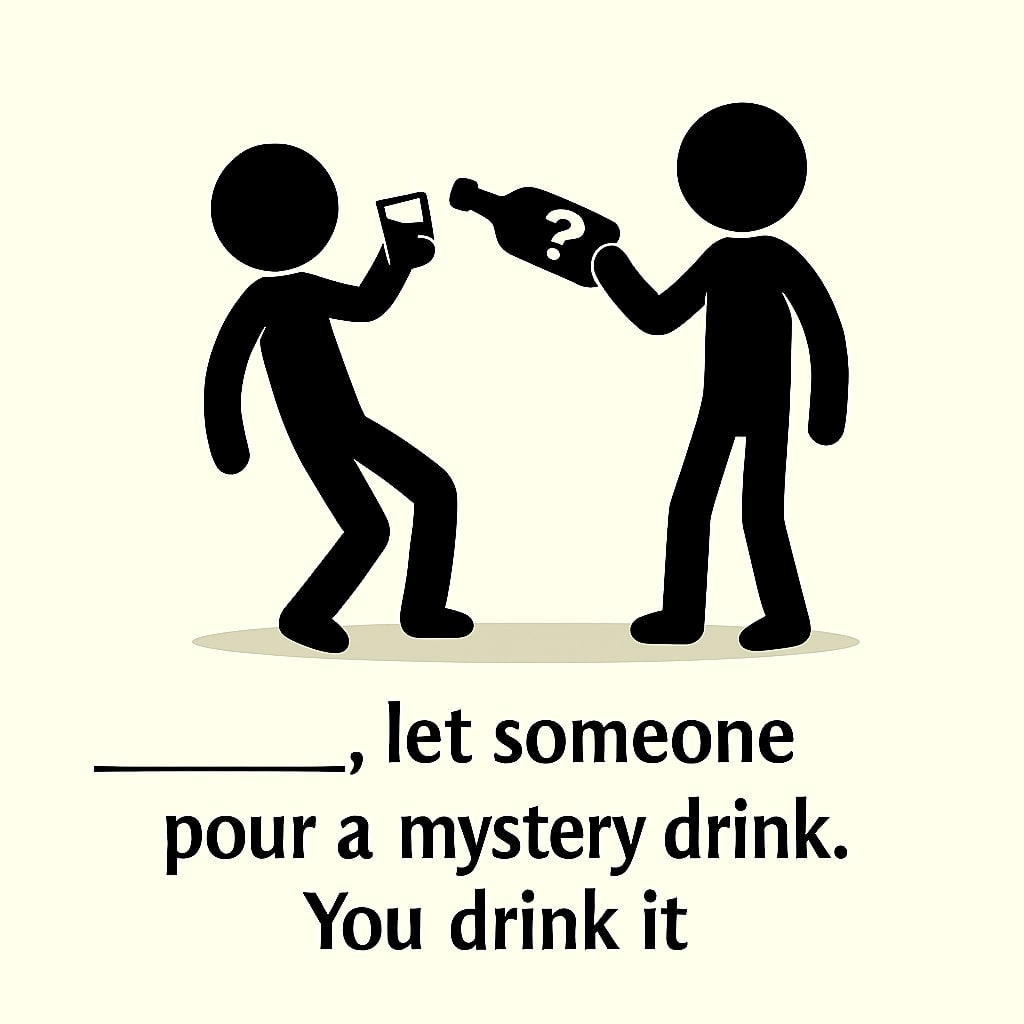
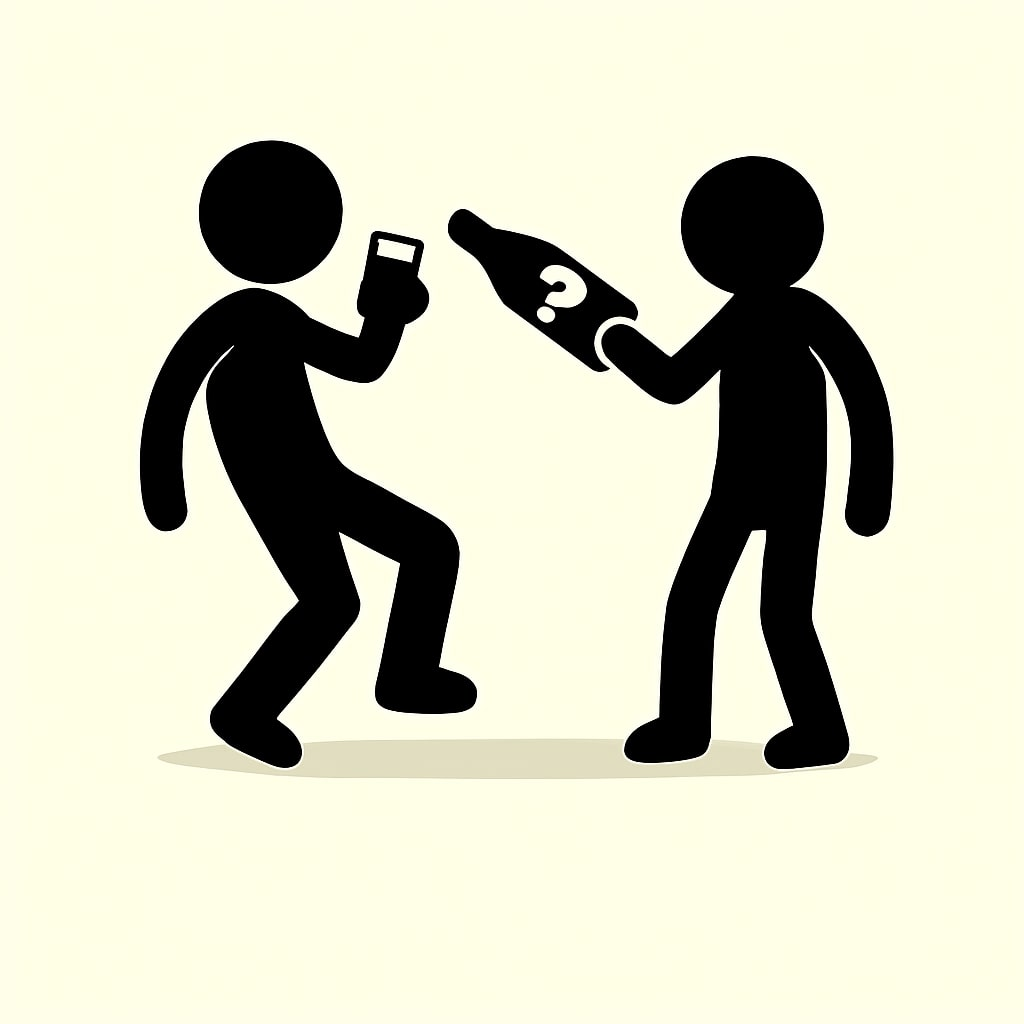
test

diff --git a/cardImages.js b/cardImages.js
@@ -18,7 +18,7 @@ const cardImageMap = {
   "[player1], whisper something you've always wondered about [player2]. Answer out loud truthfully or finish your drink": "whisper_question.jpg",
   "[player1], ask [player2] the last thing they lied about.": "ask_last_lie.jpg",
   "[player1], give your phone to [player2] for 60 seconds — app of their choice.": "give_phone_dare.jpg",
-  "[player1], challenge [player2] to a sip-for-sip showdown — loser finishes their drink.": "bodyshot.jpg",
+  "[player1], take a body shot off someone of your choice.": "bodyshot.jpg",
   "[player1], Read your last flirtatious message out loud or take 3 sips.": "risky_text.jpg",
   "[player1], What's a compliment you've never forgotten?": "ask_personal_questions.jpg",
   "[player1], if you had to hook up with [player2] or your last situationship, who would you pick?": "kiss_situationship_or_friend.jpg",
@@ -26,61 +26,61 @@ const cardImageMap = {
 };
 
 const nameOverlayStyles = {
-  "ask_last_lie.jpg": {
-    player1: { top: "60%", left: "20%", fontSize: "14px" },
-    player2: { top: "60%", left: "55%", fontSize: "14px" }
-  },
-  "ask_personal_questions.jpg": {
-    player1: { top: "30%", left: "30", fontSize: "14px" },
-    player2: { top: "30%", left: "65%", fontSize: "14px" }
-  },
-  "bodyshot.jpg": {
-    player1: { top: "60%", left: "22%", fontSize: "16px" }
+  "do_a_valid_pushup.jpg": {
+    player1: { top: "70%", left: "50%", fontSize: "16px" }
   },
   "call_snapchat.jpg": {
-    player1: { top: "18%", left: "24%", fontSize: "16px" }
-  },
-  "do_a_valid_pushup.jpg": {
-    player1: { top: "22%", left: "45%", fontSize: "14px" }
-  },
-  "first_impression.jpg": {
-    player1: { top: "14%", left: "20%", fontSize: "14px" },
-    player2: { top: "14%", left: "70%", fontSize: "14px" }
-  },
-  "give_dare_or_drink.jpg": {
-    player1: { top: "40%", left: "25%", fontSize: "14px" },
-    player2: { top: "40%", left: "65%", fontSize: "14px" }
-  },
-  "give_phone_dare.jpg": {
-    player1: { top: "60%", left: "15%", fontSize: "14px" },
-    player2: { top: "70%", left: "25%", fontSize: "14px" }
-  },
-  "guess_body_count.jpg": {
-    player1: { top: "60%", left: "17%", fontSize: "14px" },
-    player2: { top: "60%", left: "55%", fontSize: "14px" }
-  },
-  "invent_a_drinking_rule_everyone_follows_it.jpg": {
-    player1: { top: "40%", left: "40%", fontSize: "16px" }
-  },
-  "kiss_situationship_or_friend.jpg": {
-    player1: { top: "60%", left: "30%", fontSize: "14px" },
-    player2: { top: "60%", left: "70%", fontSize: "14px" }
-  },
-  "let_someone_decide_drink.jpg": {
-    player1: { top: "26%", left: "28%", fontSize: "16px" }
+    player1: { top: "25%", left: "50%", fontSize: "16px" }
   },
   "mystery_drink.jpg": {
-    player1: { top: "30%", left: "28%", fontSize: "16px" }
+    player1: { top: "25%", left: "50%", fontSize: "16px" }
+  },
+  "let_someone_decide_drink.jpg": {
+    player1: { top: "25%", left: "40%", fontSize: "16px" }
+  },
+  "give_dare_or_drink.jpg": {
+    player1: { top: "15%", left: "35%" },
+    player2: { top: "15%", left: "65%" }
+  },
+  "guess_body_count.jpg": {
+    player1: { top: "22%", left: "25%", fontSize: "15px" },
+    player2: { top: "22%", left: "75%", fontSize: "15px" }
   },
   "rate_flirting_ability.jpg": {
-    player1: { top: "70%", left: "30%", fontSize: "14px" },
-    player2: { top: "70%", left: "65%", fontSize: "14px" }
-  },
-  "whisper_question.jpg": {
-    player1: { top: "24%", left: "32%", fontSize: "14px" },
-    player2: { top: "24%", left: "68%", fontSize: "14px" }
+    player1: { top: "20%", left: "30%", fontSize: "14px" },
+    player2: { top: "20%", left: "70%", fontSize: "14px" }
   },
   "you_a_bitch.jpg": {
-    player1: { top: "26%", left: "30%", fontSize: "16px" }
+    player1: { top: "15%", left: "30%", fontSize: "16px" }
+  },
+  "invent_a_drinking_rule_everyone_follows_it.jpg": {
+    player1: { top: "10%", left: "50%", fontSize: "16px" }
+  },
+  "first_impression.jpg": {
+    player1: { top: "20%", left: "30%", fontSize: "14px" },
+    player2: { top: "20%", left: "70%", fontSize: "14px" }
+  },
+  "whisper_question.jpg": {
+    player1: { top: "28%", left: "35%", fontSize: "14px" },
+    player2: { top: "28%", left: "65%", fontSize: "14px" }
+  },
+  "ask_last_lie.jpg": {
+    player1: { top: "20%", left: "30%", fontSize: "15px" },
+    player2: { top: "20%", left: "70%", fontSize: "15px" }
+  },
+  "give_phone_dare.jpg": {
+    player1: { top: "25%", left: "30%", fontSize: "14px" },
+    player2: { top: "25%", left: "70%", fontSize: "14px" }
+  },
+  "bodyshot.jpg": {
+    player1: { top: "22%", left: "50%", fontSize: "15px" }
+  },
+  "ask_personal_questions.jpg": {
+    player1: { top: "15%", left: "35%", fontSize: "14px" },
+    player2: { top: "15%", left: "65%", fontSize: "14px" }
+  },
+  "kiss_situationship_or_friend.jpg": {
+    player1: { top: "25%", left: "30%", fontSize: "14px" },
+    player2: { top: "25%", left: "70%", fontSize: "14px" }
   }
 };

diff --git a/game.html b/game.html
@@ -1,4 +1,4 @@
-<!-- #made by chambers Malouf -->
+<!-- made by Chambers Malouf -->
 <!DOCTYPE html>
 <html>
 <head>
@@ -31,7 +31,7 @@
       perspective: 1000px;
       margin: auto;
       width: 300px;
-      height: 450px;
+      height: 480px;
       position: relative;
       cursor: pointer;
     }
@@ -59,17 +59,28 @@
     .card-front {
       transform: rotateY(180deg);
       display: flex;
+      flex-direction: column;
       align-items: center;
-      justify-content: center;
+      justify-content: flex-start;
       overflow: hidden;
       background: none;
       position: relative;
+      padding-top: 10px;
     }
     .card-front img {
       max-width: 100%;
-      max-height: 100%;
+      height: auto;
       object-fit: contain;
       border-radius: 10px;
+    }
+    .overlay-text {
+      margin-top: 10px;
+      color: white;
+      font-size: 18px;
+      font-weight: bold;
+      text-shadow: 1px 1px 2px black;
+      padding: 10px;
+      max-width: 90%;
     }
     .player-name {
       position: absolute;
@@ -119,23 +130,25 @@
     const loadingOverlay = document.getElementById("loadingOverlay");
     document.getElementById("modeTitle").textContent = `Game Mode: ${mode} | Rounds Left: ${totalRounds}`;
 
-    async function setupCard(backURL, frontContent, imageName, name1, name2) {
+    async function setupCard(backURL, frontImagePath, slug, name1, name2, rawText) {
       loadingOverlay.style.display = "none";
 
       let overlayHTML = "";
-      const overlay = nameOverlayStyles[imageName];
+      const overlay = nameOverlayStyles[slug];
       if (overlay) {
         if (overlay.player1) {
-          overlayHTML += `<div class="player-name" style="top: ${overlay.player1.top}; left: ${overlay.player1.left}; font-size: ${overlay.player1.fontSize};">${name1}</div>`;
+          overlayHTML += `<div class="player-name" style="top: ${overlay.player1.top}; left: ${overlay.player1.left}; font-size: ${overlay.player1.fontSize || '16px'}">${name1}</div>`;
         }
         if (overlay.player2) {
-          overlayHTML += `<div class="player-name" style="top: ${overlay.player2.top}; left: ${overlay.player2.left}; font-size: ${overlay.player2.fontSize};">${name2}</div>`;
+          overlayHTML += `<div class="player-name" style="top: ${overlay.player2.top}; left: ${overlay.player2.left}; font-size: ${overlay.player2.fontSize || '16px'}">${name2}</div>`;
         }
       }
 
-      const frontHTML = frontContent.includes("images/cards/")
-        ? `<img src='${frontContent}' alt='Card Image'>${overlayHTML}`
-        : `<div style="background:#111; color:white; padding:20px; border-radius:10px; font-size:1.2em;">${frontContent}</div>`;
+      const frontHTML = `
+        <img src='${frontImagePath}' alt='Card Image'>
+        ${overlayHTML}
+        <div class="overlay-text">${rawText}</div>
+      `;
 
       document.getElementById("result").innerHTML = `
         <div class="card-container">
@@ -182,20 +195,17 @@
 
         const card = availableCards.shift();
         let rawCard = card.text;
+        const slug = cardImageMap[card.text] || "";
+        const frontImagePath = slug ? `images/cards/${slug}` : "";
+        const backImagePath = `images/ui/${card.type}-${card.severity}.jpg`;
 
         const shuffled = [...players].sort(() => 0.5 - Math.random());
         const name1 = shuffled[0] || "Player 1";
         const name2 = shuffled[1] || "Player 2";
 
-        if (rawCard.includes("[player1]") || rawCard.includes("[player2]")) {
-          rawCard = rawCard
-            .replace("[player1]", name1)
-            .replace("[player2]", name2);
-        }
-
-        const slug = cardImageMap[card.text] || "";
-        const frontImagePath = slug ? `images/cards/${slug}` : "";
-        const backImagePath = `images/ui/${card.type}-${card.severity}.jpg`;
+        rawCard = rawCard
+          .replace("[player1]", name1)
+          .replace("[player2]", name2);
 
         nextCardText = rawCard;
         currentRound++;
@@ -203,14 +213,14 @@
 
         if (frontImagePath) {
           await preloadCardImage(frontImagePath);
-          setupCard(backImagePath, frontImagePath, slug, name1, name2);
+          setupCard(backImagePath, frontImagePath, slug, name1, name2, rawCard);
         } else {
-          setupCard(backImagePath, rawCard, "", name1, name2);
+          setupCard(backImagePath, "", "", name1, name2, rawCard);
         }
 
       } catch (error) {
         nextCardText = "Error: " + error.message;
-        setupCard("images/ui/conflict-casual.jpg", nextCardText, "", "Player 1", "Player 2");
+        setupCard("images/ui/conflict-casual.jpg", "", "", "Player 1", "Player 2", nextCardText);
       }
     }
 

diff --git a/cardTextMap.js b/cardTextMap.js
@@ -1,0 +1,50 @@
+const cardTextMap = {
+  "ask_last_lie.jpg": {
+    text: "<b>[player1]</b> ask <b>[player2]</b> the last thing they lied about."
+  },
+  "ask_personal_questions.jpg": {
+    text: "Take turns asking personal questions until someone folds and drinks."
+  },
+  "bodyshot.jpg": {
+    text: "<b>[player1]</b> give a body shot off someone of your choice."
+  },
+  "call_snapchat.jpg": {
+    text: "<b>[player1]</b>, call the last person you Snapchatted and ask what they think of you."
+  },
+  "do_a_valid_pushup.jpg": {
+    text: "<b>[player1]</b>, do 1 valid push up, group decides if it counts."
+  },
+  "first_impression.jpg": {
+    text: "<b>[player1]</b>, explain your first impression of <b>[player2]</b>. Be honest."
+  },
+  "give_dare_or_drink.jpg": {
+    text: "<b>[player1]</b>, give <b>[player2]</b> a dare. If they refuse, they drink."
+  },
+  "give_phone_dare.jpg": {
+    text: "<b>[player1]</b>, give your phone to <b>[player2]</b> for 60 seconds. App of their choice."
+  },
+  "guess_body_count.jpg": {
+    text: "<b>[player1]</b> guess <b>[player2]</b>'s body count. If they're offended, finish your drink."
+  },
+  "invent_a_drinking_rule_everyone_follows_it.jpg": {
+    text: "<b>[player1]</b>, invent a drinking rule — everyone follows it."
+  },
+  "kiss_situationship_or_friend.jpg": {
+    text: "<b>[player1]</b>, if you had to hook up with <b>[player2]</b> or your last situationship, who would you pick?"
+  },
+  "let_someone_decide_drink.jpg": {
+    text: "<b>[player1]</b>, let someone else decide how much you drink."
+  },
+  "mystery_drink.jpg": {
+    text: "<b>[player1]</b>, let someone pour a mystery drink. You drink it."
+  },
+  "rate_flirting_ability.jpg": {
+    text: "<b>[player1]</b>, rate <b>[player2]</b>'s flirting ability."
+  },
+  "whisper_question.jpg": {
+    text: "<b>[player1]</b>, whisper something you’ve always wondered about <b>[player2]</b>. Answer truthfully or finish your drink."
+  },
+  "you_a_bitch.jpg": {
+    text: "<b>[player1]</b>, you are a bitch — take every punishment this round."
+  }
+};
